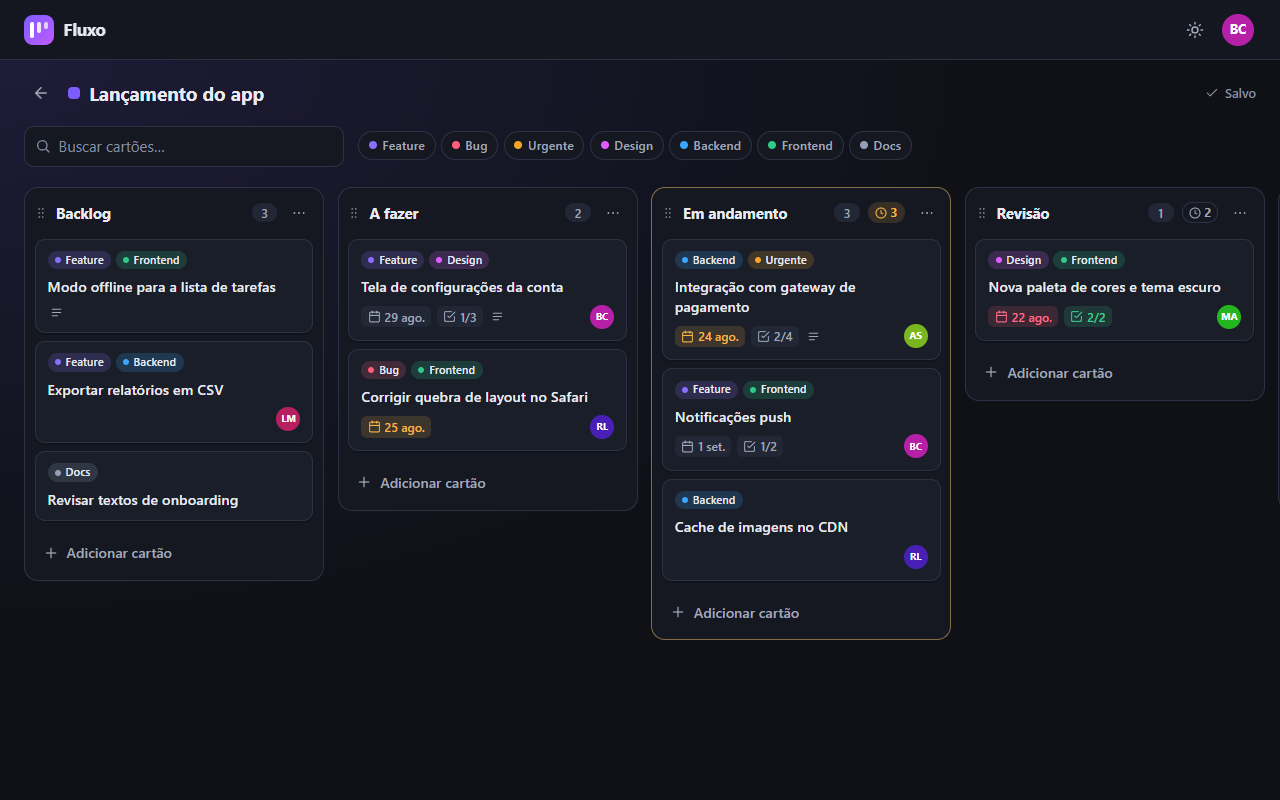
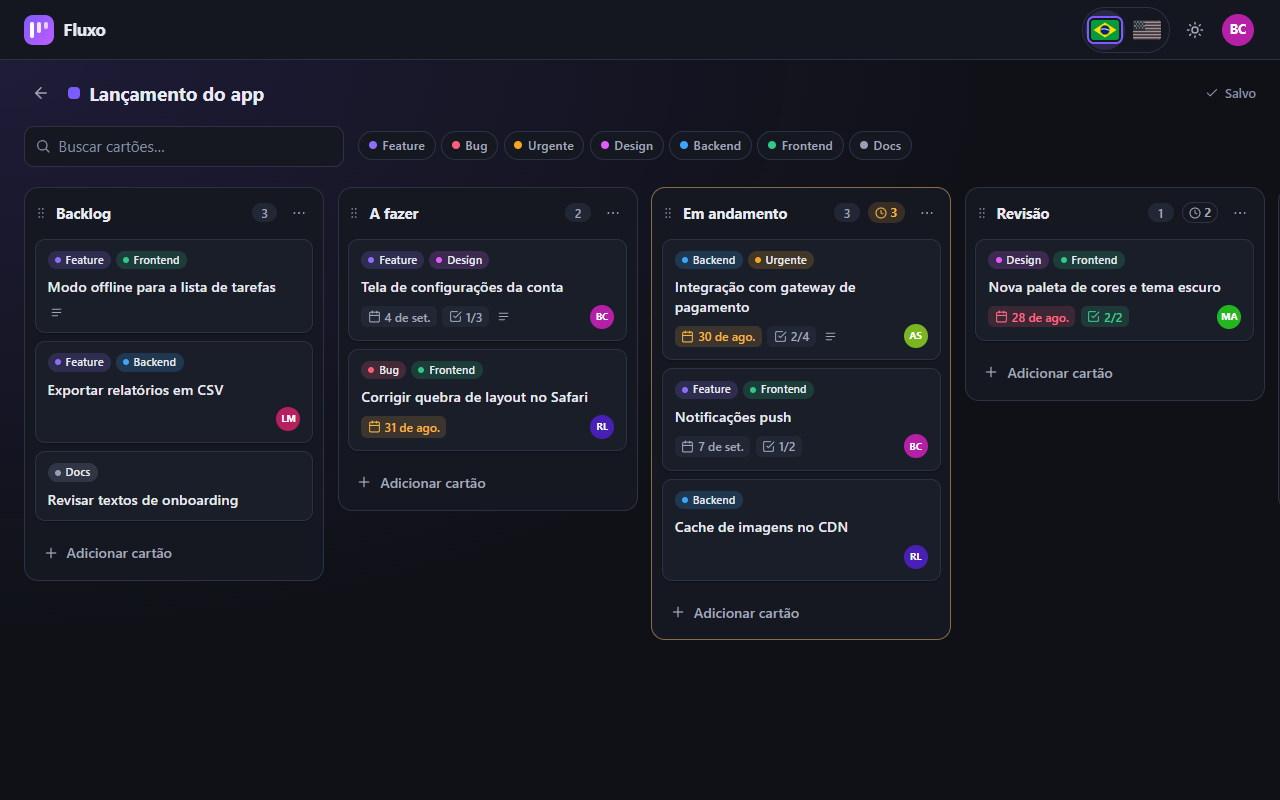
feat(i18n): use flag buttons in the language switcher
Inline SVG flags (Brazil/USA) in an accessible radio group with arrow-key navigation, native language names, lang attributes and a ring on the active option. Refreshes the README screenshot.

diff --git a/src/app/core/i18n/language-switcher.component.ts b/src/app/core/i18n/language-switcher.component.ts
@@ -1,90 +1,116 @@
-import { ChangeDetectionStrategy, Component, inject } from '@angular/core';
+import { ChangeDetectionStrategy, Component, ElementRef, inject } from '@angular/core';
 import { TranslocoPipe } from '@jsverse/transloco';
 
-import { isAppLang, SUPPORTED_LANGS } from './language';
+import { FlagComponent } from '../../shared/ui/flag/flag.component';
+import { AppLang, LANG_FLAGS, LANG_NATIVE_NAMES, SUPPORTED_LANGS } from './language';
 import { LanguageService } from './language.service';
 
-let nextId = 0;
-
-/** Native `<select>`: accessible by default (label, keyboard, screen readers, mobile pickers). */
+/**
+ * Flag buttons acting as a radio group (WAI-ARIA radio pattern): Tab reaches the checked flag,
+ * arrow keys move and select. Each option is named in its own language ("English", not "Inglês").
+ */
 @Component({
   selector: 'app-language-switcher',
-  imports: [TranslocoPipe],
+  imports: [TranslocoPipe, FlagComponent],
   template: `
-    <label class="sr-only" [for]="selectId">{{ 'language.label' | transloco }}</label>
-    <span class="switcher__code" aria-hidden="true">{{
-      language.lang() === 'en' ? 'EN' : 'PT'
-    }}</span>
-    <select
-      class="switcher__select"
-      [id]="selectId"
-      [value]="language.lang()"
-      (change)="onChange($event)"
-    >
+    <div class="switcher" role="radiogroup" [attr.aria-label]="'language.label' | transloco">
       @for (lang of langs; track lang) {
-        <option [value]="lang" [selected]="lang === language.lang()">
-          {{ 'language.names.' + lang | transloco }}
-        </option>
+        <button
+          type="button"
+          class="switcher__option"
+          role="radio"
+          [attr.lang]="lang"
+          [attr.aria-checked]="lang === language.lang()"
+          [attr.aria-label]="names[lang]"
+          [attr.title]="names[lang]"
+          [tabIndex]="lang === language.lang() ? 0 : -1"
+          (click)="select(lang)"
+          (keydown)="onKeydown($event)"
+        >
+          <app-flag [code]="flags[lang]" />
+        </button>
       }
-    </select>
+    </div>
   `,
   styles: `
-    :host {
-      position: relative;
+    .switcher {
       display: inline-flex;
       align-items: center;
-      height: 34px;
-      border-radius: var(--radius-sm);
-      color: var(--text-muted);
-      transition:
-        background var(--transition),
-        color var(--transition);
-
-      &:hover {
-        background: var(--surface-hover);
-        color: var(--text);
-      }
-
-      &:focus-within {
-        box-shadow: var(--focus-ring);
-      }
+      gap: 2px;
+      padding: 2px;
+      border: 1px solid var(--border);
+      border-radius: var(--radius-full);
+      background: var(--bg-elevated);
     }
 
-    .switcher__code {
-      padding: 0 0.55rem;
-      font-size: 0.78rem;
-      font-weight: 700;
-      letter-spacing: 0.04em;
-    }
-
-    /* The select covers the visible code so the whole area opens the native picker. */
-    .switcher__select {
-      position: absolute;
-      inset: 0;
-      width: 100%;
-      opacity: 0;
+    .switcher__option {
+      display: inline-grid;
+      place-items: center;
+      width: 40px;
+      height: 40px;
+      padding: 0;
+      border: 0;
+      border-radius: var(--radius-full);
+      background: transparent;
       cursor: pointer;
+      transition: background var(--transition);
 
-      &:focus {
-        outline: none;
+      app-flag {
+        opacity: 0.55;
+        filter: grayscale(0.7);
+        transition:
+          opacity var(--transition),
+          filter var(--transition),
+          transform var(--transition);
       }
 
-      option {
-        color: initial;
+      &:hover,
+      &:focus-visible {
+        background: var(--surface-hover);
+
+        app-flag {
+          opacity: 1;
+          filter: none;
+        }
+      }
+
+      /* Selected: full color plus a ring, so the state is not conveyed by color alone. */
+      &[aria-checked='true'] {
+        background: var(--accent-soft);
+
+        app-flag {
+          opacity: 1;
+          filter: none;
+          box-shadow:
+            0 0 0 2px var(--bg-elevated),
+            0 0 0 4px var(--accent);
+        }
       }
     }
   `,
   changeDetection: ChangeDetectionStrategy.OnPush,
 })
 export class LanguageSwitcherComponent {
+  private readonly host = inject<ElementRef<HTMLElement>>(ElementRef);
   protected readonly language = inject(LanguageService);
   protected readonly langs = SUPPORTED_LANGS;
-  protected readonly selectId = `language-switcher-${nextId++}`;
+  protected readonly names = LANG_NATIVE_NAMES;
+  protected readonly flags = LANG_FLAGS;
 
-  protected onChange(event: Event): void {
-    const value = (event.target as HTMLSelectElement).value;
-    if (isAppLang(value)) {
-      this.language.setLang(value);
+  protected select(lang: AppLang): void {
+    this.language.setLang(lang);
+  }
+
+  /** Arrow keys move the selection (and focus) to the previous/next language, wrapping around. */
+  protected onKeydown(event: KeyboardEvent): void {
+    const step = { ArrowRight: 1, ArrowDown: 1, ArrowLeft: -1, ArrowUp: -1 }[event.key];
+    if (!step) {
+      return;
     }
+    event.preventDefault();
+    const index = SUPPORTED_LANGS.indexOf(this.language.lang());
+    const next = (index + step + SUPPORTED_LANGS.length) % SUPPORTED_LANGS.length;
+    this.select(SUPPORTED_LANGS[next]);
+    this.host.nativeElement.querySelectorAll<HTMLButtonElement>('[role="radio"]')[next]?.focus();
   }
 }

diff --git a/src/app/core/i18n/language-switcher.component.spec.ts b/src/app/core/i18n/language-switcher.component.spec.ts
@@ -26,44 +26,61 @@ describe('LanguageSwitcherComponent', () => {
     document.documentElement.lang = 'pt-BR';
   });
 
-  function select(): HTMLSelectElement {
-    const el = element.querySelector('select');
-    if (!el) {
-      throw new Error('select not found');
+  const group = () => element.querySelector('[role="radiogroup"]');
+  /** Finds a radio by its accessible name (aria-label). */
+  function radio(name: string): HTMLButtonElement {
+    const found = [...element.querySelectorAll<HTMLButtonElement>('[role="radio"]')].find(
+      (el) => el.getAttribute('aria-label') === name,
+    );
+    if (!found) {
+      throw new Error(`radio "${name}" not found`);
     }
-    return el;
+    return found;
   }
 
-  it('is labelled and lists both languages', () => {
-    const label = element.querySelector('label');
-    expect(label?.textContent?.trim()).toBe('Idioma');
-    expect(label?.getAttribute('for')).toBe(select().id);
-    expect([...select().options].map((o) => o.textContent?.trim())).toEqual([
-      'Português (Brasil)',
-      'English',
-    ]);
-    expect(element.querySelector('.switcher__code')?.textContent?.trim()).toBe('PT');
+  it('renders a labelled radio group with one flag per language, named in its own language', () => {
+    expect(group()?.getAttribute('aria-label')).toBe('Idioma');
+
+    const portuguese = radio('Português (Brasil)');
+    const english = radio('English');
+    expect(portuguese.getAttribute('lang')).toBe('pt-BR');
+    expect(english.getAttribute('lang')).toBe('en');
+    expect(english.title).toBe('English');
+    expect(english.querySelector('app-flag')?.getAttribute('aria-hidden')).toBe('true');
   });
 
-  it('switches the language, persists it and updates <html lang>', () => {
-    select().value = 'en';
-    select().dispatchEvent(new Event('change'));
+  it('marks the active language as checked and keeps only it in the tab order', () => {
+    expect(radio('Português (Brasil)').getAttribute('aria-checked')).toBe('true');
+    expect(radio('Português (Brasil)').tabIndex).toBe(0);
+    expect(radio('English').getAttribute('aria-checked')).toBe('false');
+    expect(radio('English').tabIndex).toBe(-1);
+  });
+
+  it('switches on click, persists the choice and updates <html lang>', () => {
+    radio('English').click();
     fixture.detectChanges();
 
     expect(TestBed.inject(TranslocoService).getActiveLang()).toBe('en');
-    expect(TestBed.inject(LanguageService).lang()).toBe('en');
     expect(localStorage.getItem(LANG_STORAGE_KEY)).toBe('en');
     expect(document.documentElement.lang).toBe('en');
-    expect(element.querySelector('label')?.textContent?.trim()).toBe('Language');
-    expect(element.querySelector('.switcher__code')?.textContent?.trim()).toBe('EN');
+    expect(radio('English').getAttribute('aria-checked')).toBe('true');
+    expect(group()?.getAttribute('aria-label')).toBe('Language');
   });
 
-  it('ignores values that are not supported languages', () => {
-    select().value = 'fr';
-    select().dispatchEvent(new Event('change'));
+  it('moves the selection with the arrow keys', () => {
+    radio('Português (Brasil)').dispatchEvent(
+      new KeyboardEvent('keydown', { key: 'ArrowRight', bubbles: true }),
+    );
+    fixture.detectChanges();
 
+    expect(TestBed.inject(LanguageService).lang()).toBe('en');
+    expect(document.activeElement).toBe(radio('English'));
+
+    radio('English').dispatchEvent(
+      new KeyboardEvent('keydown', { key: 'ArrowRight', bubbles: true }),
+    );
+    fixture.detectChanges();
     expect(TestBed.inject(LanguageService).lang()).toBe('pt-BR');
-    expect(localStorage.getItem(LANG_STORAGE_KEY)).toBeNull();
   });
 });
 

diff --git a/src/app/shared/ui/flag/flag.component.ts b/src/app/shared/ui/flag/flag.component.ts
@@ -1,0 +1,72 @@
+import { ChangeDetectionStrategy, Component, input } from '@angular/core';
+
+export type FlagCode = 'br' | 'us';
+
+/**
+ * Small decorative country flag (28x20) drawn inline: emoji flags are not rendered on Windows.
+ * Rounded corners come from the host (`overflow: hidden`) instead of an SVG clipPath, so several
+ * instances on the same page never clash on element ids.
+ */
+@Component({
+  selector: 'app-flag',
+  template: `
+    <svg viewBox="0 0 28 20" width="28" height="20" aria-hidden="true" focusable="false">
+      @switch (code()) {
+        @case ('br') {
+          <rect width="28" height="20" fill="#009C3B" />
+          <path d="M14 2.5 25.5 10 14 17.5 2.5 10Z" fill="#FFDF00" />
+          <circle cx="14" cy="10" r="4.6" fill="#002776" />
+          <path d="M9.6 8.9c3-.9 6.3-.6 8.9 1.1l-.3.9c-2.5-1.6-5.6-1.9-8.4-1.1Z" fill="#fff" />
+        }
+        @case ('us') {
+          <rect width="28" height="20" fill="#fff" />
+          <path
+            d="M0 0h28M0 3.08h28M0 6.15h28M0 9.23h28M0 12.3h28M0 15.38h28M0 18.46h28"
+            stroke="#B22234"
+            stroke-width="1.54"
+            transform="translate(0 .77)"
+          />
+          <rect width="12" height="10.77" fill="#3C3B6E" />
+          <g fill="#fff">
+            @for (star of stars; track $index) {
+              <circle [attr.cx]="star[0]" [attr.cy]="star[1]" r=".6" />
+            }
+          </g>
+        }
+      }
+    </svg>
+  `,
+  styles: `
+    :host {
+      display: inline-flex;
+      flex-shrink: 0;
+      overflow: hidden;
+      border-radius: 3px;
+      box-shadow: 0 0 0 1px rgb(0 0 0 / 12%);
+      line-height: 0;
+    }
+  `,
+  host: { 'aria-hidden': 'true' },
+  changeDetection: ChangeDetectionStrategy.OnPush,
+})
+export class FlagComponent {
+  readonly code = input.required<FlagCode>();
+
+  /** Simplified 14-star canton (enough detail at 28px). */
+  protected readonly stars: readonly (readonly [number, number])[] = [
+    [2, 2],
+    [5, 2],
+    [8, 2],
+    [11, 2],
+    [3.5, 4],
+    [6.5, 4],
+    [9.5, 4],
+    [2, 6],
+    [5, 6],
+    [8, 6],
+    [11, 6],
+    [3.5, 8],
+    [6.5, 8],
+    [9.5, 8],
+  ];
+}

diff --git a/src/app/core/i18n/language.ts b/src/app/core/i18n/language.ts
@@ -1,3 +1,5 @@
+import { FlagCode } from '../../shared/ui/flag/flag.component';
+
 export const SUPPORTED_LANGS = ['pt-BR', 'en'] as const;
 export type AppLang = (typeof SUPPORTED_LANGS)[number];
 
@@ -8,6 +10,17 @@ export const LANG_STORAGE_KEY = 'kanban.lang';
 export const LANG_TO_LOCALE: Readonly<Record<AppLang, string>> = {
   'pt-BR': 'pt-BR',
   en: 'en-US',
+};
+
+/** Each language is named in itself, so people can find theirs whatever the current UI language. */
+export const LANG_NATIVE_NAMES: Readonly<Record<AppLang, string>> = {
+  'pt-BR': 'Português (Brasil)',
+  en: 'English',
+};
+
+export const LANG_FLAGS: Readonly<Record<AppLang, FlagCode>> = {
+  'pt-BR': 'br',
+  en: 'us',
 };
 
 export function isAppLang(value: unknown): value is AppLang {

diff --git a/README.md b/README.md
@@ -116,7 +116,9 @@ A interface está em **português (pt-BR, padrão)** e **inglês (en)**, com
   com `api/`.
 - **Idioma inicial**: escolha salva (`localStorage`, chave `kanban.lang`) > idioma do navegador
   (`pt*` → pt-BR, qualquer outro → en) > pt-BR. O `LanguageService` aplica o idioma, atualiza
-  `<html lang>` e persiste a troca; o seletor no cabeçalho é um `<select>` nativo com label.
+  `<html lang>` e persiste a troca. O seletor (cabeçalho e login) é um grupo de botões com
+  bandeiras em SVG inline (`role="radiogroup"`, setas do teclado, nome de cada idioma no próprio
+  idioma e `lang` no botão).
 - **Formatação**: datas usam `translocoDate` (`@jsverse/transloco-locale`, baseado em `Intl`),
   com pt-BR → `pt-BR` e en → `en-US`.
 - **Títulos**: o `title` das rotas é uma chave (`titles.boards`); um `TitleStrategy` próprio traduz
@@ -131,8 +133,8 @@ A interface está em **português (pt-BR, padrão)** e **inglês (en)**, com
 
 **Para adicionar um idioma** (ex.: espanhol): crie `public/i18n/es.json`,
 `public/i18n/auth/es.json` e `public/i18n/boards/es.json` com as mesmas chaves, inclua `'es'` em
-`SUPPORTED_LANGS` e em `LANG_TO_LOCALE` (`core/i18n/language.ts`), ajuste a regra de detecção
-se quiser e adicione o nome em `language.names` nos arquivos globais.
+`SUPPORTED_LANGS` e em `LANG_TO_LOCALE` (`core/i18n/language.ts`), adicione o nome nativo e a bandeira em
+`LANG_NATIVE_NAMES`/`LANG_FLAGS` (e o SVG em `shared/ui/flag`) e ajuste a regra de detecção se quiser.
 
 ## Como rodar
 

diff --git a/README.en.md b/README.en.md
@@ -51,11 +51,12 @@ tests) · GitHub Actions + GitHub Pages.
   (`public/i18n/auth/…`, `public/i18n/boards/…`) registered with `provideTranslocoScope` in each
   feature route.
 - Initial language: saved choice (`kanban.lang`) > browser language (`pt*` → pt-BR, otherwise en)
-  > pt-BR. `<html lang>` follows the active language; the header has an accessible language select.
+  > pt-BR. `<html lang>` follows the active language; the header and login screen have an accessible flag switcher (inline SVG flags in a radio group).
 - Dates are formatted with `@jsverse/transloco-locale` (Intl). Route titles are translation keys
   resolved by a custom `TitleStrategy`. The store keeps error **keys**, not text.
 - To add a language: create the three JSON files with the same keys and add it to
-  `SUPPORTED_LANGS`/`LANG_TO_LOCALE` in `core/i18n/language.ts`. A spec checks that every language
+  `SUPPORTED_LANGS`, `LANG_TO_LOCALE`, `LANG_NATIVE_NAMES` and `LANG_FLAGS` in
+  `core/i18n/language.ts` (plus its flag in `shared/ui/flag`). A spec checks that every language
   has exactly the same keys.
 
 ## Running it
